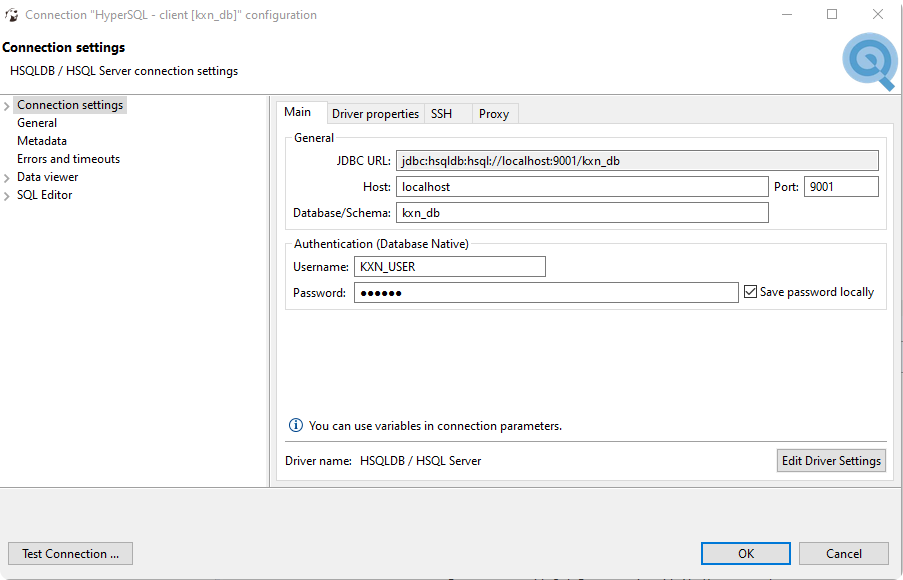
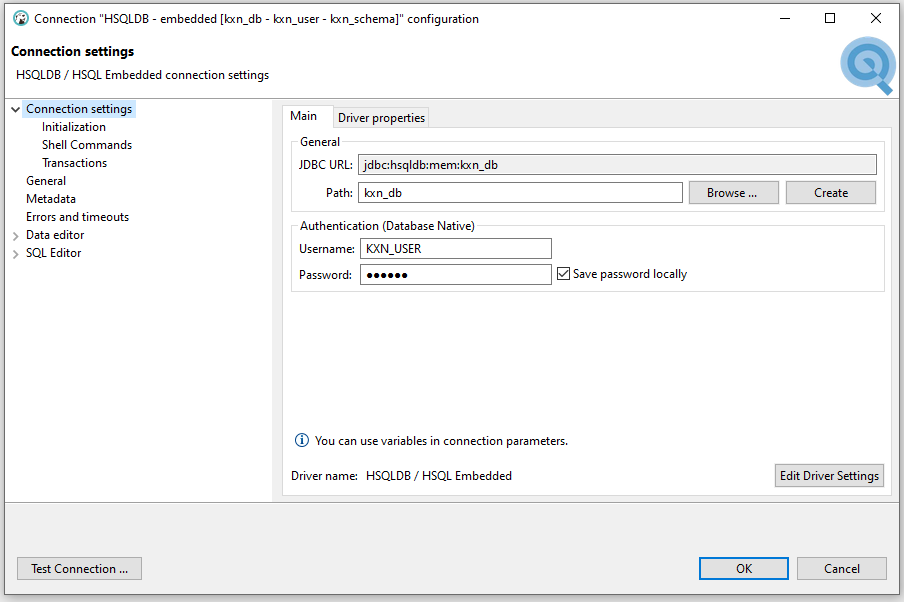
Version 2.9.1

Changed region(s): [[0.0, 0.0, 1.0, 1.0], [0.3101, 0.7138, 0.6202, 0.7448]]

diff --git a/src/main/java/ch/konnexions/db_seeder/jdbc/hsqldb/HsqldbSeeder.java b/src/main/java/ch/konnexions/db_seeder/jdbc/hsqldb/HsqldbSeeder.java
@@ -44,7 +44,7 @@ public final class HsqldbSeeder extends AbstractGenHsqldbSchema {
           ? ""
           : ";password=" + password) + connectionSuffix;
     } else {
-      return connectionPrefix + "file:" + database + ";user=" + user + ("".equals(password)
+      return connectionPrefix + "mem:" + database + ";user=" + user + ("".equals(password)
           ? ""
           : ";password=" + password) + connectionSuffix;
     }
@@ -87,14 +87,22 @@ public final class HsqldbSeeder extends AbstractGenHsqldbSchema {
                       config.getUserSys().toUpperCase(),
                       "");
 
-    urlUser  = getUrl(isClient,
-                      config.getConnectionHost(),
-                      config.getConnectionPort(),
-                      config.getConnectionPrefix(),
-                      config.getConnectionSuffix(),
-                      config.getDatabase(),
-                      config.getUser().toUpperCase(),
-                      config.getPassword());
+    if (isDebug) {
+      logger.info("wwe urlSys='" + urlSys + "'");
+    }
+
+    urlUser = getUrl(isClient,
+                     config.getConnectionHost(),
+                     config.getConnectionPort(),
+                     config.getConnectionPrefix(),
+                     config.getConnectionSuffix(),
+                     config.getDatabase(),
+                     config.getUser().toUpperCase(),
+                     config.getPassword());
+
+    if (isDebug) {
+      logger.info("wwe urlUser='" + urlUser + "'");
+    }
 
     if (isDebug) {
       logger.debug("End   Constructor");
@@ -131,8 +139,13 @@ public final class HsqldbSeeder extends AbstractGenHsqldbSchema {
                          true);
 
     String password   = config.getPassword();
-    String schemaName = config.getSchema().toUpperCase();
-    String userName   = config.getUser().toUpperCase();
+
+    String schemaName = "PUBLIC";
+    if (isClient) {
+      schemaName = config.getSchema().toUpperCase();
+    }
+
+    String userName = config.getUser().toUpperCase();
 
     // -----------------------------------------------------------------------
     // Tear down an existing schema.
@@ -145,10 +158,12 @@ public final class HsqldbSeeder extends AbstractGenHsqldbSchema {
       System.exit(1);
     }
 
-    dropSchema(schemaName,
-               "CASCADE",
-               "INFORMATION_SCHEMA.SYSTEM_SCHEMAS",
-               "table_schem");
+    if (isClient) {
+      dropSchema(schemaName,
+                 "CASCADE",
+                 "INFORMATION_SCHEMA.SYSTEM_SCHEMAS",
+                 "table_schem");
+    }
 
     dropUser(userName,
              "",
@@ -160,9 +175,11 @@ public final class HsqldbSeeder extends AbstractGenHsqldbSchema {
     // -----------------------------------------------------------------------
 
     try {
-      executeDdlStmnts(statement,
-                       "CREATE USER " + userName + " PASSWORD '" + password + "' ADMIN",
-                       "CREATE SCHEMA " + schemaName + " AUTHORIZATION " + userName);
+      if (isClient) {
+        executeDdlStmnts(statement,
+                         "CREATE USER " + userName + " PASSWORD '" + password + "' ADMIN",
+                         "CREATE SCHEMA " + schemaName + " AUTHORIZATION " + userName);
+      }
 
       statement.close();
     } catch (SQLException e) {

diff --git a/src/main/java/ch/konnexions/db_seeder/utils/Config.java b/src/main/java/ch/konnexions/db_seeder/utils/Config.java
@@ -377,7 +377,8 @@ public final class Config {
     }
 
     if (environmentVariables.containsKey("DB_SEEDER_CONNECTION_PREFIX")) {
-      connectionPrefix = environmentVariables.get("DB_SEEDER_CONNECTION_PREFIX");
+      connectionPrefix = environmentVariables.get("DB_SEEDER_CONNECTION_PREFIX").replace("\"",
+                                                                                         "");
       propertiesConfiguration.setProperty("db_seeder.connection.prefix",
                                           connectionPrefix);
     }
@@ -389,7 +390,8 @@ public final class Config {
     }
 
     if (environmentVariables.containsKey("DB_SEEDER_CONNECTION_SUFFIX")) {
-      connectionSuffix = environmentVariables.get("DB_SEEDER_CONNECTION_SUFFIX");
+      connectionSuffix = environmentVariables.get("DB_SEEDER_CONNECTION_SUFFIX").replace("\"",
+                                                                                         "");
       propertiesConfiguration.setProperty("db_seeder.connection.suffix",
                                           connectionSuffix);
     }
